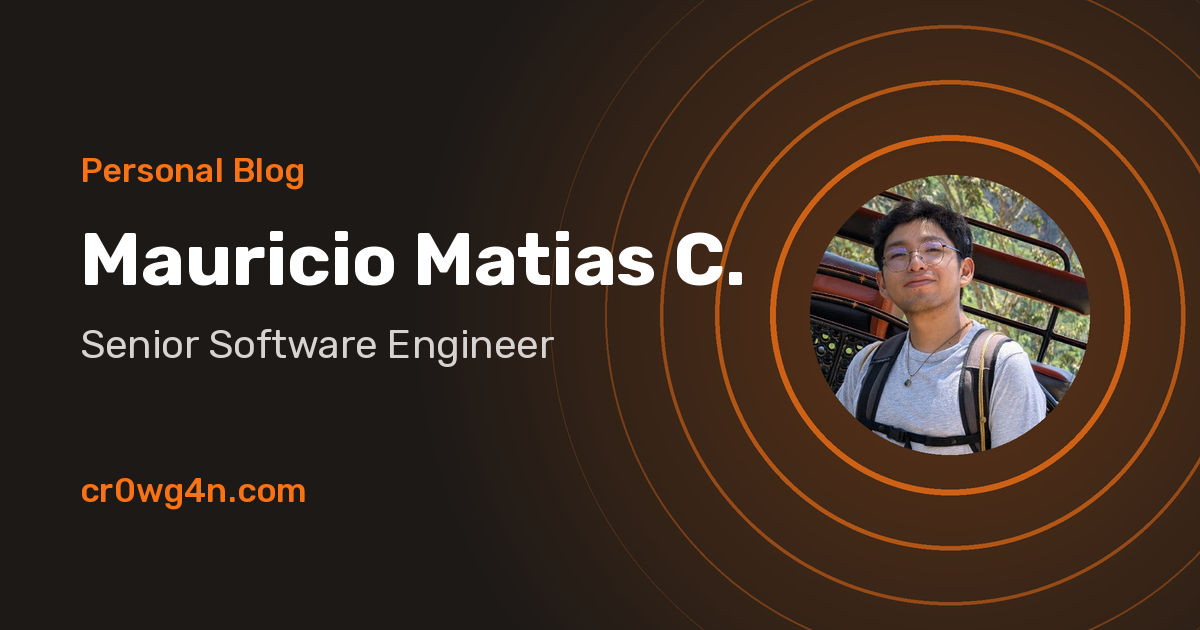
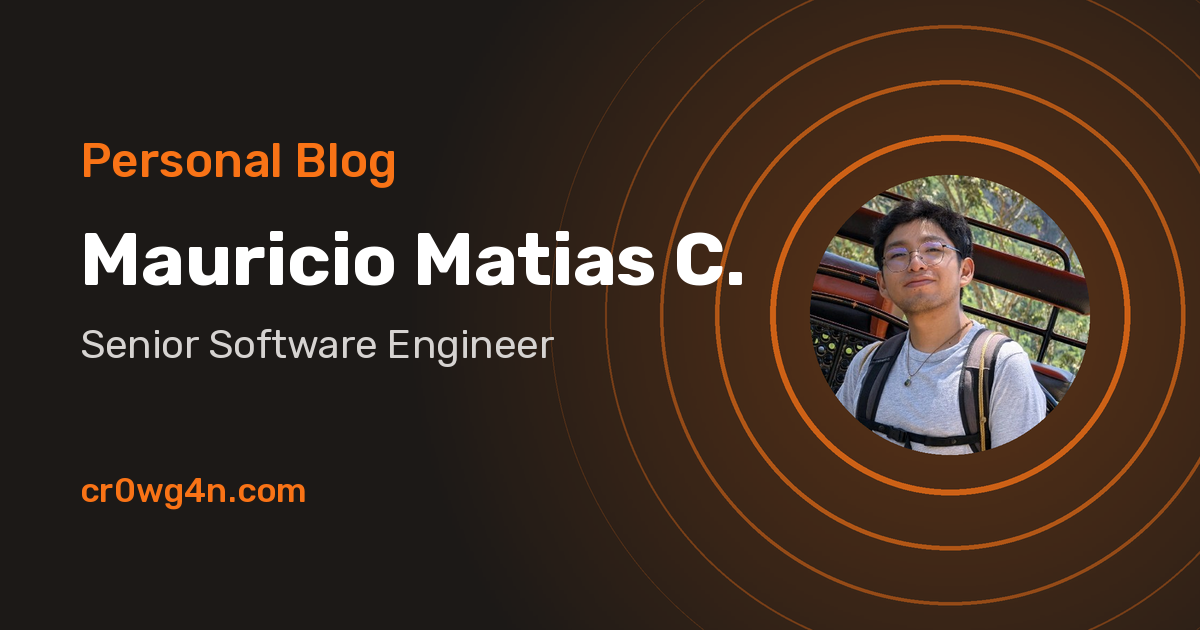
meta: new title (Mauricio Matias - Personal Blog) and a larger Personal Blog label on the social card

Changed region(s): [[0.0617, 0.2111, 0.3392, 0.3016]]

diff --git a/blog/content/_index.es.md b/blog/content/_index.es.md
@@ -1,5 +1,5 @@
 ---
-title: "Mauricio Matias C. · Senior Software Engineer"
+title: "Mauricio Matias - Blog Personal"
 description: "Ingeniero de software senior. Proyectos, charlas y artículos de Mauricio Matias C. (cr0wg4n) sobre software, sistemas y el lado humano de la tecnología."
 ---
 

diff --git a/blog/content/_index.en.md b/blog/content/_index.en.md
@@ -1,5 +1,5 @@
 ---
-title: "Mauricio Matias C. · Senior Software Engineer"
+title: "Mauricio Matias - Personal Blog"
 description: "Senior Software Engineer. Projects, talks and articles by Mauricio Matias C. (cr0wg4n) on software, systems and the human side of technology."
 ---
 
